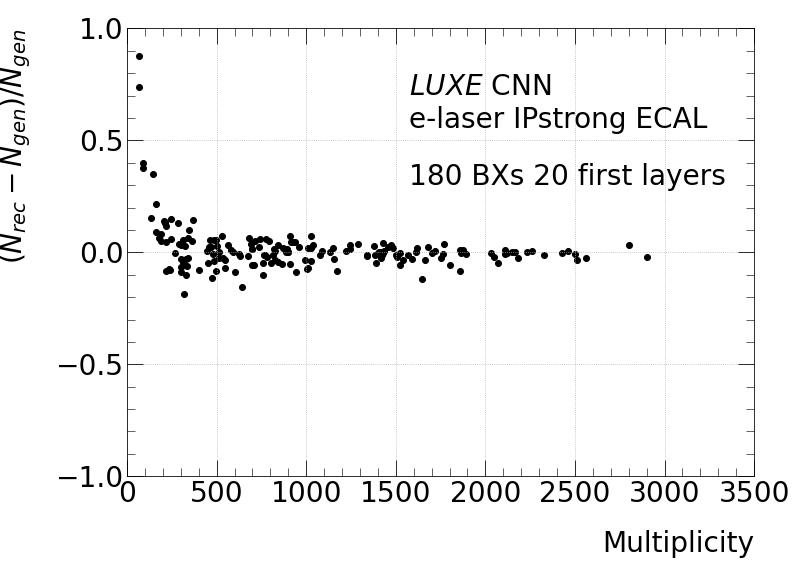
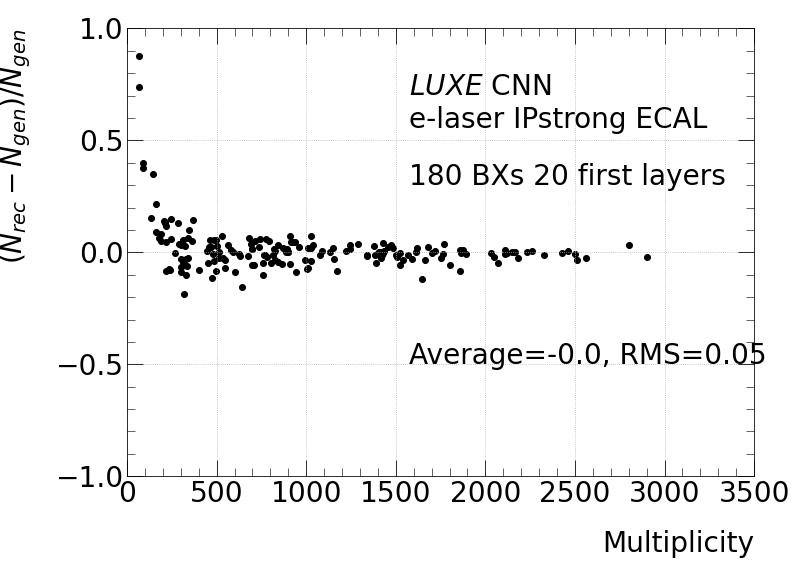
u

Changed region(s): [[0.5145, 0.5996, 0.7566, 0.6596], [0.7869, 0.5996, 0.9685, 0.6596]]

diff --git a/shan_scripts/plots.py b/shan_scripts/plots.py
@@ -1,11 +1,15 @@
 #!/usr/bin/env python3
-
+import scipy
 import sys, os
 import numpy, matplotlib
 import matplotlib.pyplot as pyplot
 import numpy as np
 import pandas as pd
 # from matplotlib.ticker import (MultipleLocator, AutoMinorLocator)
+from scipy.stats import norm
+import matplotlib.mlab as mlab
+import matplotlib.pyplot as plt
+from scipy.stats import norm
 
 pyplot.style.use("./shan_scripts/luxe.mplstyle")
 
@@ -123,6 +127,36 @@ def projection(xx, yy, fname):
         transform=ax.transAxes, verticalalignment='top')
     pyplot.savefig(fname)
 
+def projection_sandbox(xx, yy, fname, data, bins):
+    fig,ax = pyplot.subplots()
+
+    mean,std=norm.fit(data)
+    plt.hist(data, bins=bins, density=True, label='Projection')
+    xmin, xmax = plt.xlim()
+    x = np.linspace(xmin, xmax, 100)
+    y = norm.pdf(x, mean, std)
+    y /= y.sum()
+    plt.plot(x, y, 'r--', linewidth=2, label='Gaussian')
+    fname1 = fname[:-4] + '_myplot.png'
+    plt.ylabel('Density')
+    plt.xlabel(r'$(N_{rec} - N_{gen})/N_{gen}$')
+    plt.text(0.05,0.9,f"mean={round(mean,2)}, std={round(std,2)}", \
+        transform=ax.transAxes, verticalalignment='top')
+    plt.savefig(fname1)
+
+    ax.stairs(yy,xx, fill=True, color='b', label="Projection")
+    ax.stairs(yy,xx, fill=False, color='k') # redraw the outline in black
+    ax.legend(loc=(0.625,0.8))  # defined by left-bottom of legend box; in the ratio of figure size
+    # ax.set_xlim(-.5,.5)
+    # ax.set_ylim(0,45)
+    ax.set_xlabel(r'$(N_{rec} - N_{gen})/N_{gen}$')
+    ax.set_ylabel(r'Occurrences')
+    ax.text(0.05,0.9,"$LUXE$ CNN\ne-laser IPstrong ECAL", \
+        transform=ax.transAxes, verticalalignment='top')
+    ax.text(0.05,0.7,f"180 BXs {layers} first layers", \
+        transform=ax.transAxes, verticalalignment='top')
+    pyplot.savefig(fname)
+
 def rel_error(xx, yy, fname):
     fig,ax = pyplot.subplots()
     ax.scatter(xx,yy, color='k', label="Relative error")
@@ -138,6 +172,8 @@ def rel_error(xx, yy, fname):
     pyplot.savefig(fname)
 
 def tot(xx, yy, fname):
+    avg = yy[xx > 200].mean()
+    rms = np.sqrt(np.mean(yy[xx > 200]**2))
     fig,ax = pyplot.subplots()
     ax.scatter(xx,yy, color='k')
     ax.legend(loc=(0.625,0.8))  # defined by left-bottom of legend box; in the ratio of figure size
@@ -148,6 +184,8 @@ def tot(xx, yy, fname):
     ax.text(0.45,0.9,"$LUXE$ CNN\ne-laser IPstrong ECAL", \
         transform=ax.transAxes, verticalalignment='top', horizontalalignment='left')
     ax.text(0.45,0.7,f"180 BXs {layers} first layers", \
+        transform=ax.transAxes, verticalalignment='top', horizontalalignment='left')
+    ax.text(0.45,0.3,f"Average={round(avg,2)}, RMS={round(rms,2)}", \
         transform=ax.transAxes, verticalalignment='top', horizontalalignment='left')
     pyplot.savefig(fname)
 

diff --git a/sandbox/work_with_input.py b/sandbox/work_with_input.py
@@ -111,4 +111,8 @@ if __name__ == '__main__':
         # x.append(np.array(energies[str(event)]).sum())
         # y.append(np.array(energies[str(event)]).sum() / sum_dict[str(event)])
     p.ratio(x, y, f'./sandbox/figures/{name}_ratio.png')
+    x_numpy = np.array(x)
+    y_numpy = np.array(y)
+    yy1, xx = np.histogram(y_numpy[x_numpy>200], bins=30)
+    p.projection_sandbox(xx, yy1, f'./sandbox/figures/{name}_ratio_projection.png', y_numpy[x_numpy>200], bins=30)
 
